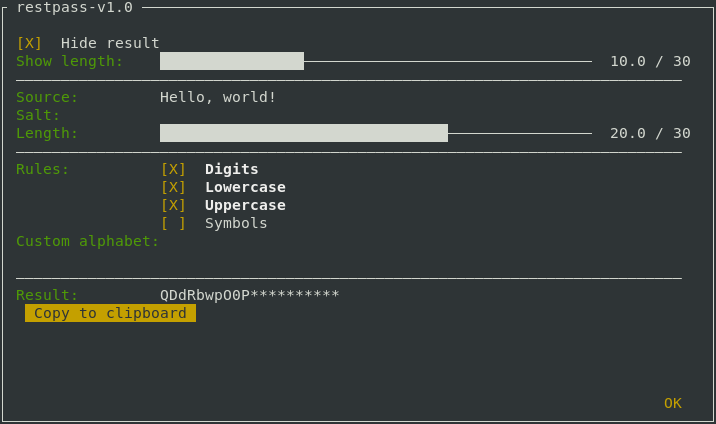
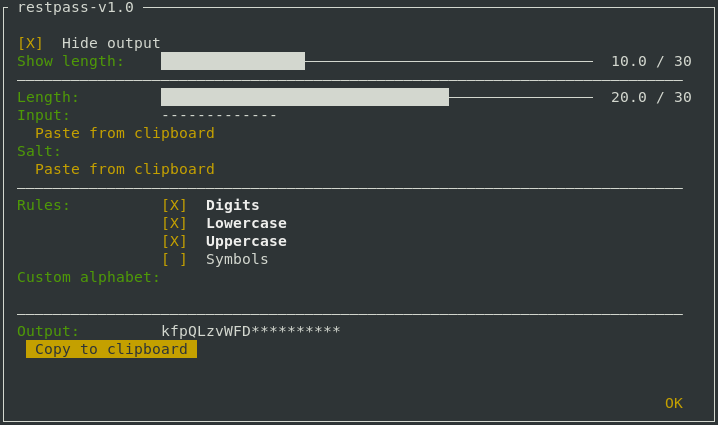
Updated README.md

Changed region(s): [[0.0, 0.0307, 1.0, 1.0], [0.0, 0.6132, 0.9525, 0.8585], [0.0, 0.0, 0.1844, 0.0307]]

diff --git a/README.md b/README.md
@@ -1,2 +1,18 @@
 # restpass
 A terminal based graphical generator for restorable passwords
+
+![UI](misc/ui.png?raw=true)
+```bash
+pip install restpass
+or
+pip install git+https://github.com/BananaLoaf/restpass
+```
+### Usage
+The core principle is simple - **for the same input you get the same output**. 
+The input consist of input string, salt, length and used alphabet (either constructed from rules or custom).
+Output is the generated password. In case of forgetting the password, you can always come back and restore it (if you remember the input, of course).
+##### Recommendations
+1. Use memorable phrases (favorite quotes, song lyrics, etc) for input string and salt (not required by default).
+2. Salt is used in cases when you want to reuse input string. For example, you can use the same input string for your desktop and laptop, but different salt.
+3. Minimum recommended length is 15. According to [howsecureismypassword.net], it would take a computer about **558 QUADRILLION YEARS** to crack your password.
+4. Using symbols or custom alphabet is the last thing to consider.
